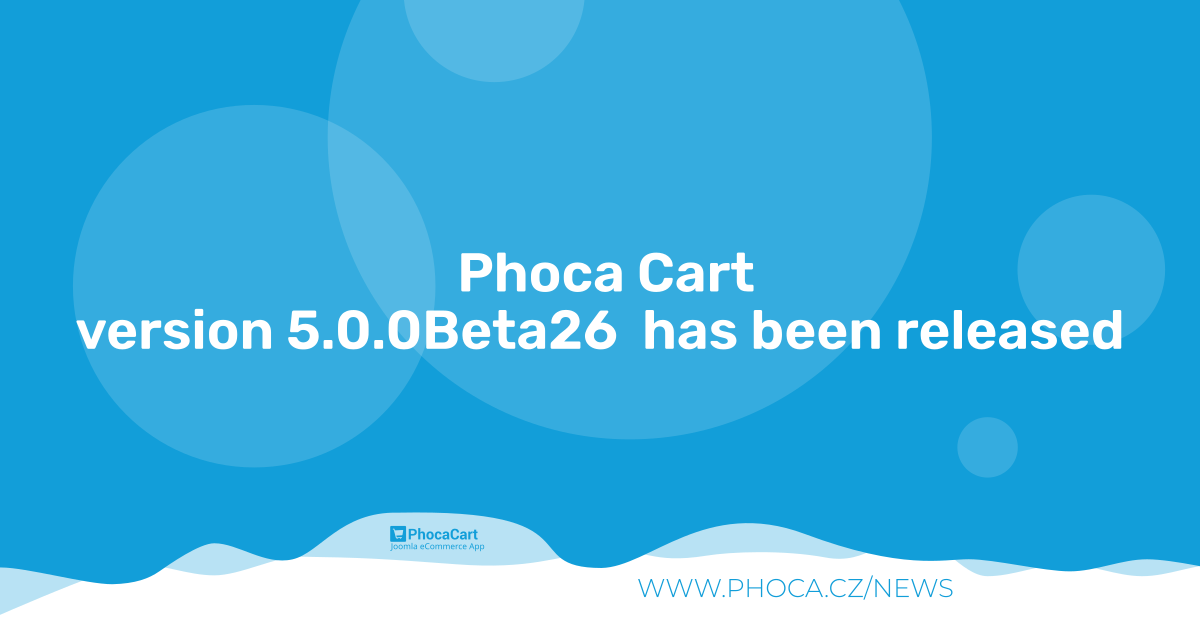
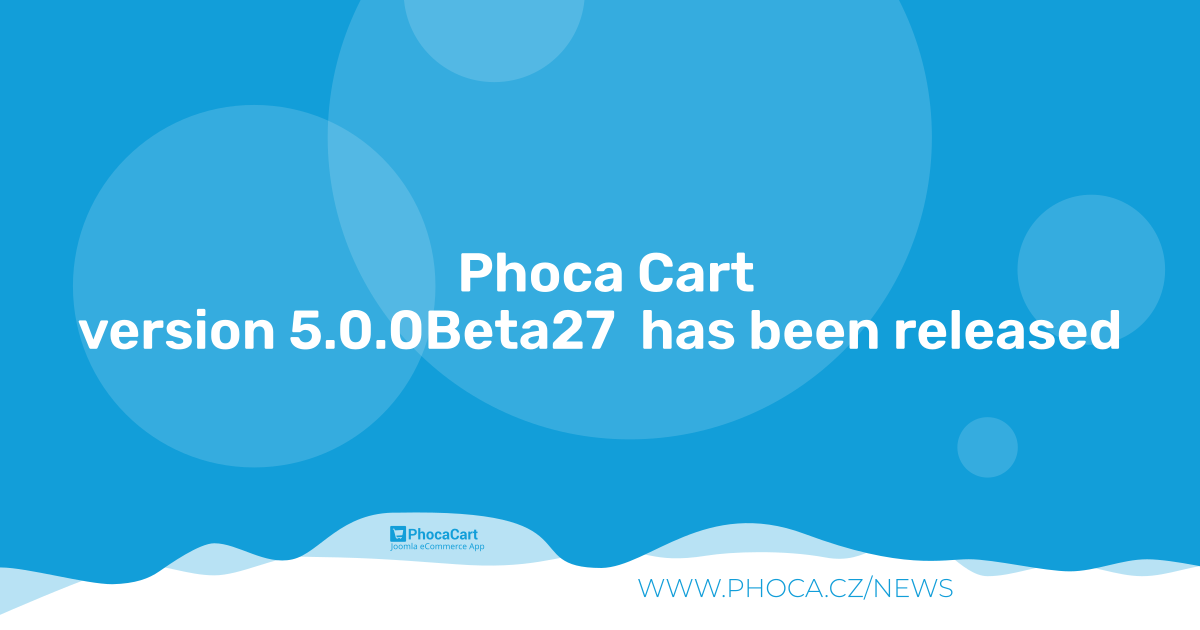
5.0.0Beta27

Changed region(s): [[0.0617, 0.4825, 0.9558, 0.573]]

diff --git a/admin/libraries/phocacart/wishlist/wishlist.php b/admin/libraries/phocacart/wishlist/wishlist.php
@@ -244,24 +244,39 @@ class PhocacartWishlist
 
 		if ($full == 1) {
 
-			if (I18nHelper::useI18n()) {
-				$columns = 'coalesce(i18n_a.title, a.title) as title, coalesce(i18n_a.alias, a.alias) as alias, coalesce(i18n_a.description, a.description) as description';
+			/*if (I18nHelper::useI18n()) {
+				$columns = 'coalesce(i18n_a.title, a.title) as title,'
+                          .' coalesce(i18n_a.alias, a.alias) as alias,'
+                          .' coalesce(i18n_a.description, a.description) as description';
 			} else {
-				$columns = 'a.title as title, a.alias as alias, a.description';
-			}
+				$columns = 'a.title as title,'
+                          .' a.alias as alias,'
+                          .' a.description';
+			}*/
+            $columns = I18nHelper::sqlCoalesce(['title', 'alias', 'description']);
 
+            $columns .= ', a.id as id,'
+                       .' GROUP_CONCAT(DISTINCT c.id) as catid,'
+                       .' COUNT(pc.category_id) AS count_categories,'
+                       .' a.catid AS preferred_catid,';
 
-			$groupsFull		= $columns . ', a.id, a.price, a.image,'
-			.' a.stock, a.min_quantity, a.min_multiple_quantity, a.stockstatus_a_id, a.stockstatus_n_id, a.availability,'
-			.' ppg.price, pptg.points_received';
+           /* if (I18nHelper::useI18n()) {
+				$columns .= ' GROUP_CONCAT(DISTINCT coalesce(i18n_c.alias, c.alias)) as catalias,'
+                           .' GROUP_CONCAT(DISTINCT coalesce(i18n_c.title, c.title)) as cattitle';
 
-			$columns		.= ', a.id as id, a.price, a.image,'
-			.'  GROUP_CONCAT(DISTINCT c.id) as catid, GROUP_CONCAT(DISTINCT c.alias) as catalias, GROUP_CONCAT(DISTINCT c.title) as cattitle, COUNT(pc.category_id) AS count_categories, a.catid AS preferred_catid,'
-			//.' a.length, a.width, a.height, a.weight, a.volume,'
-			.' a.stock, a.min_quantity, a.min_multiple_quantity, a.stockstatus_a_id, a.stockstatus_n_id, a.availability,'
-			//.' m.title as manufacturer_title'
-			.' MIN(ppg.price) as group_price, MAX(pptg.points_received) as group_points_received';
+			} else {
+				$columns .= ' GROUP_CONCAT(DISTINCT c.alias) as catalias,'
+                           .' GROUP_CONCAT(DISTINCT c.title) as cattitle';
+			}*/
+            $columns .= I18nHelper::sqlCoalesce(['title', 'alias'], 'i18n', 'c', 'cat', 'groupconcatdistinct');
 
+			$columns .= ', a.price, a.image,'
+			            .' a.stock, a.min_quantity, a.min_multiple_quantity, a.stockstatus_a_id, a.stockstatus_n_id, a.availability,'
+			            .' MIN(ppg.price) as group_price, MAX(pptg.points_received) as group_points_received';
+
+            $groupsFull		= 'a.id, a.title, a.alias, a.description, a.price, a.image,'
+			                .' a.stock, a.min_quantity, a.min_multiple_quantity, a.stockstatus_a_id, a.stockstatus_n_id, a.availability,'
+			                .' ppg.price, pptg.points_received';
 			$groupsFast		= 'a.id';
 			$groups			= PhocacartUtilsSettings::isFullGroupBy() ? $groupsFull : $groupsFast;
 
@@ -271,10 +286,10 @@ class PhocacartWishlist
 			 . I18nHelper::sqlJoin('#__phocacart_products_i18n', 'i18n_a', 'a')
 			.' LEFT JOIN #__phocacart_product_categories AS pc ON pc.product_id =  a.id'
 			.' LEFT JOIN #__phocacart_categories AS c ON c.id =  pc.category_id'
+             . I18nHelper::sqlJoin('#__phocacart_categories_i18n', 'i18n_c', 'c')
 			//.' LEFT JOIN #__phocacart_manufacturers AS m ON a.manufacturer_id = m.id'
 			. ' LEFT JOIN #__phocacart_item_groups AS ga ON a.id = ga.item_id AND ga.type = 3'// type 3 is product
 			. ' LEFT JOIN #__phocacart_item_groups AS gc ON c.id = gc.item_id AND gc.type = 2'// type 2 is category
-
 			// user is in more groups, select lowest price by best group
 			. ' LEFT JOIN #__phocacart_product_price_groups AS ppg ON a.id = ppg.product_id AND ppg.group_id IN (SELECT group_id FROM #__phocacart_item_groups WHERE item_id = a.id AND group_id IN ('.$userGroups.') AND type = 3)'
 			// user is in more groups, select highest points by best group
@@ -285,31 +300,49 @@ class PhocacartWishlist
 			. ' ORDER BY a.id';
 		} else {
 
-			if (I18nHelper::useI18n()) {
-				$columns = 'coalesce(i18n_a.title, a.title) as title, coalesce(i18n_a.alias, a.alias) as alias, coalesce(i18n_a.description, a.description) as description';
+			/*if (I18nHelper::useI18n()) {
+				$columns = 'coalesce(i18n_a.title, a.title) as title,'
+                          .' coalesce(i18n_a.alias, a.alias) as alias,'
+                          .' coalesce(i18n_a.description, a.description) as description';
 			} else {
-				$columns = 'a.title as title, a.alias as alias, a.description';
-			}
+				$columns = 'a.title as title,'
+                          .' a.alias as alias,'
+                          .' a.description';
+			}*/
+            $columns = I18nHelper::sqlCoalesce(['title', 'alias', 'description']);
 
-			$groupsFull		= $columns . ', a.id, a.title, a.alias';
+            $columns .= ', a.id as id,'
+                       .' GROUP_CONCAT(DISTINCT c.id) as catid,'
+                       .' COUNT(pc.category_id) AS count_categories,'
+                       .' a.catid AS preferred_catid,';
 
-			$columns		.= ', a.id as id,'
-			.' GROUP_CONCAT(DISTINCT c.id) as catid, GROUP_CONCAT(DISTINCT c.alias) as catalias, GROUP_CONCAT(DISTINCT c.title) as cattitle, COUNT(pc.category_id) AS count_categories, a.catid AS preferred_catid';
+           /* if (I18nHelper::useI18n()) {
+				$columns .= ' GROUP_CONCAT(DISTINCT coalesce(i18n_c.alias, c.alias)) as catalias,'
+                           .' GROUP_CONCAT(DISTINCT coalesce(i18n_c.title, c.title)) as cattitle';
 
+			} else {
+				$columns .= ' GROUP_CONCAT(DISTINCT c.alias) as catalias,'
+                           .' GROUP_CONCAT(DISTINCT c.title) as cattitle';
+			}*/
+            $columns .= I18nHelper::sqlCoalesce(['title', 'alias'], 'i18n', 'c', 'cat', 'groupconcatdistinct');
+
+            $groupsFull		= 'a.id, a.title, a.alias, a.catid';
 			$groupsFast		= 'a.id';
 			$groups			= PhocacartUtilsSettings::isFullGroupBy() ? $groupsFull : $groupsFast;
 
+
 			$query =
 			 ' SELECT '.$columns
-			.' FROM #__phocacart_products AS a'
-			 . I18nHelper::sqlJoin('#__phocacart_products_i18n', 'i18n_a', 'a')
-			.' LEFT JOIN #__phocacart_product_categories AS pc ON pc.product_id =  a.id'
-			.' LEFT JOIN #__phocacart_categories AS c ON c.id =  pc.category_id'
-			. ' LEFT JOIN #__phocacart_item_groups AS ga ON a.id = ga.item_id AND ga.type = 3'// type 3 is product
-			. ' LEFT JOIN #__phocacart_item_groups AS gc ON c.id = gc.item_id AND gc.type = 2'// type 2 is category
-			.  $where
-			. ' GROUP BY '.$groups
-			. ' ORDER BY a.id';
+			 .' FROM #__phocacart_products AS a'
+             . I18nHelper::sqlJoin('#__phocacart_products_i18n', 'i18n_a', 'a')
+			 .' LEFT JOIN #__phocacart_product_categories AS pc ON pc.product_id =  a.id'
+             .' LEFT JOIN #__phocacart_categories AS c ON c.id =  pc.category_id'
+             . I18nHelper::sqlJoin('#__phocacart_categories_i18n', 'i18n_c', 'c')
+             . ' LEFT JOIN #__phocacart_item_groups AS ga ON a.id = ga.item_id AND ga.type = 3'// type 3 is product
+			 . ' LEFT JOIN #__phocacart_item_groups AS gc ON c.id = gc.item_id AND gc.type = 2'// type 2 is category
+			 .  $where
+			 . ' GROUP BY '.$groups
+			 . ' ORDER BY a.id';
 		}
 		return $query;
 	}

diff --git a/admin/libraries/src/I18n/I18nHelper.php b/admin/libraries/src/I18n/I18nHelper.php
@@ -207,6 +207,72 @@ abstract class I18nHelper
         return ' LEFT JOIN ' . $i18nTable . ' AS ' . $i18nAlias . ' ON ' . $i18nAlias . '.id = ' . $mainTableAlias . '.id AND ' . $i18nAlias . '.language = ' . $db->quote(self::getI18nLanguage()) . ' ';
     }
 
+
+    /**
+     * @param array $i18nColumns       List of columns to be transformed to coalesce in case useI18n is used
+     * @param string $i18nAlias        I18n column alias
+     * @param string $mainTableAlias   Main table column alias
+     * @param string $finalAliasPrefix Final alias for columns, e.g. "shipping" will be "shippingtitle" based on main column alias: coalesce(i18n_s.title, s.title) as shippingtitle
+     * @param string $type             Different types like default, GROUP_CONCAT(...), GROUP_CONCAT(DISTINCT ...)
+     * @param string $prefix           If this SQL entry is a part of whole SQL query, add e.g. "," as prefix
+     * @param string $suffix           If this SQL entry is a part of whole SQL query, add e.g. "," as suffix
+     * @return string
+     */
+    public static function sqlCoalesce(array $i18nColumns, string $i18nAlias = 'i18n', string $mainTableAlias = 'a', string $finalAliasPrefix = '', string $type = '', string $prefix = '', string $suffix = ''): string {
+
+        $output = '';
+
+        if ($prefix != '') {
+            $output .= $prefix;
+        }
+
+        switch($type){
+
+            case 'groupconcat':
+                $columnPrefix = 'GROUP_CONCAT(';
+                $columnSuffix = ')';
+            break;
+
+            case 'groupconcatdistinct':
+                $columnPrefix = 'GROUP_CONCAT(DISTINCT ';
+                $columnSuffix = ')';
+            break;
+
+            case '':
+            default:
+                $columnPrefix = '';
+                $columnSuffix = '';
+            break;
+
+        }
+
+        $useI18n = self::useI18n();
+        $columns = [];
+        if (!empty($i18nColumns)) {
+            foreach($i18nColumns as $k => $v) {
+
+                if ($useI18n) {
+                    $columns[] = $columnPrefix . 'coalesce(' . $i18nAlias . '_' . $mainTableAlias . '.' . $v. ', ' . $mainTableAlias. '.' . $v . ')' . $columnSuffix. ' as ' . $finalAliasPrefix . $v;
+                } else {
+                    $columns[] =  $columnPrefix . $mainTableAlias. '.' . $v . $columnSuffix. ' as ' . $finalAliasPrefix . $v;
+                }
+
+
+            }
+
+            $output = implode(', ', $columns);
+        }
+
+
+        if ($suffix != '') {
+            $output .= $suffix;
+        }
+
+        return $output;
+
+    }
+
+
     public static function getEditorIcon($langCode, $value): string
     {
         $defLanguage = self::getDefLanguage();

diff --git a/site/controllers/wishlist.json.php b/site/controllers/wishlist.json.php
@@ -52,7 +52,7 @@ class PhocaCartControllerWishList extends FormController
 		$d['s']	    = $s;
 		$layoutW	= new FileLayout('popup_add_to_wishlist', null, array('component' => 'com_phocacart'));
 
-		$d['link_wishlist'] = Route::_(PhocacartRoute::getWishListRoute((int)$item['id']), (int)$item['catid']);
+		$d['link_wishlist'] = Route::_(PhocacartRoute::getWishListRoute((int)$item['id'], (int)$item['catid']));
 		$d['link_continue'] = '';
 		// We need to know if module is displayed on wishlist site
 		// If yes and one item will be deleted per AJAX, we need to refresh wishlist site
@@ -120,7 +120,7 @@ class PhocaCartControllerWishList extends FormController
 		$d['s']	    = $s;
 		$layoutW	= new FileLayout('popup_remove_from_wishlist', null, array('component' => 'com_phocacart'));
 
-		$d['link_wishlist'] = Route::_(PhocacartRoute::getWishListRoute((int)$item['id']), (int)$item['catid']);
+		$d['link_wishlist'] = Route::_(PhocacartRoute::getWishListRoute((int)$item['id'], (int)$item['catid']));
 		$d['link_continue'] = '';
 		// We need to know if module is displayed on wishlist site
 		// If yes and one item will be deleted per AJAX, we need to refresh wishlist site

diff --git a/admin/models/phocacartitems.php b/admin/models/phocacartitems.php
@@ -119,7 +119,7 @@ class PhocaCartCpModelPhocaCartItems extends ListModel
 
 		// Load the filter state.
 		$search = $app->getUserStateFromRequest($this->context.'.filter.search', 'filter_search');
-		$this->setState('filter.search', trim($search));
+		$this->setState('filter.search', trim((string)$search));
 
 		$accessId = $app->getUserStateFromRequest($this->context.'.filter.access', 'filter_access', null, 'int');
 		$this->setState('filter.access', $accessId);

diff --git a/site/views/wishlist/view.html.php b/site/views/wishlist/view.html.php
@@ -53,7 +53,6 @@ class PhocaCartViewWishList extends HtmlView
 		$wishlist = new PhocacartWishlist();
 		$this->t['items'] = $wishlist->getFullItems();
 
-
 		if (!empty($this->t['items'])) {
 
 			foreach ($this->t['items'] as $k => $v) {

diff --git a/README.MD b/README.MD
@@ -132,7 +132,7 @@ Phoca Cart is e-commerce extension - powerful shopping cart for Joomla! CMS. Pho
 
 ## Version (Joomla! 5.x)
 
-5.0.0Beta26
+5.0.0Beta27
 
 
 
